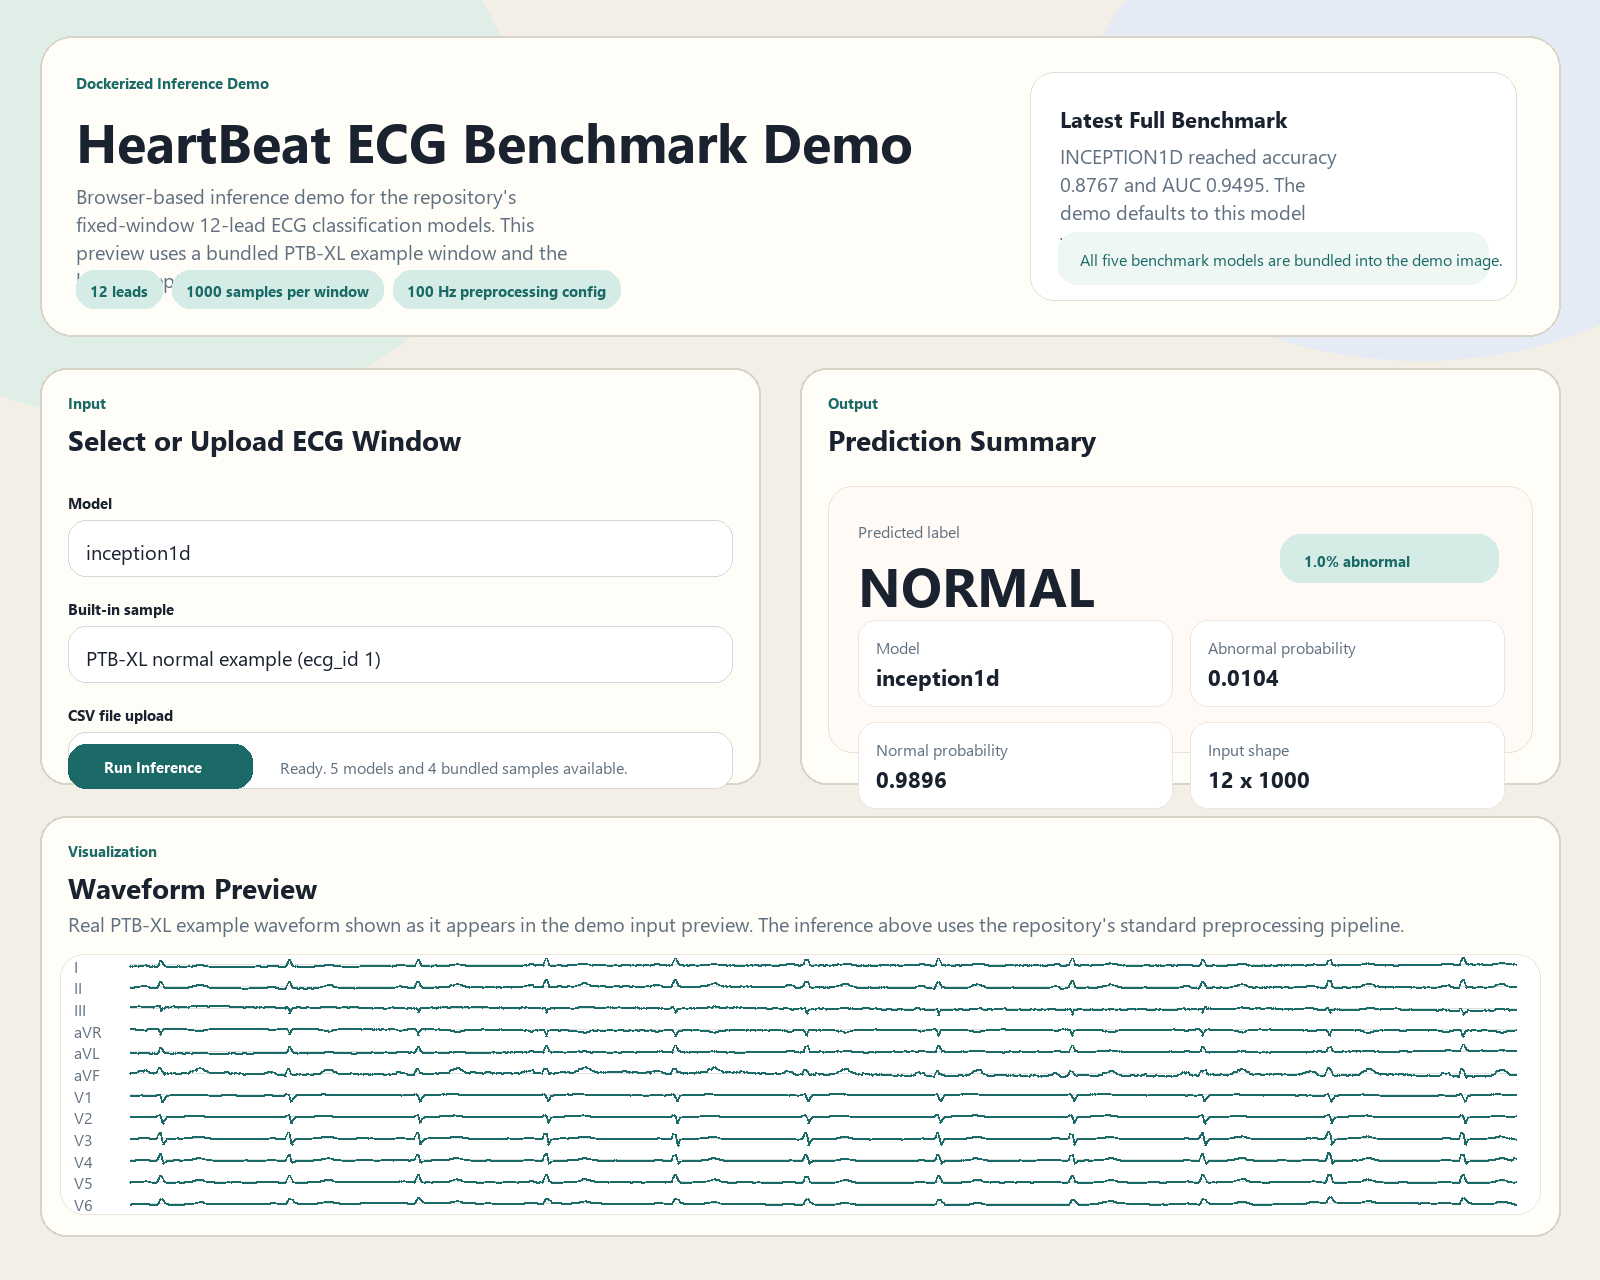
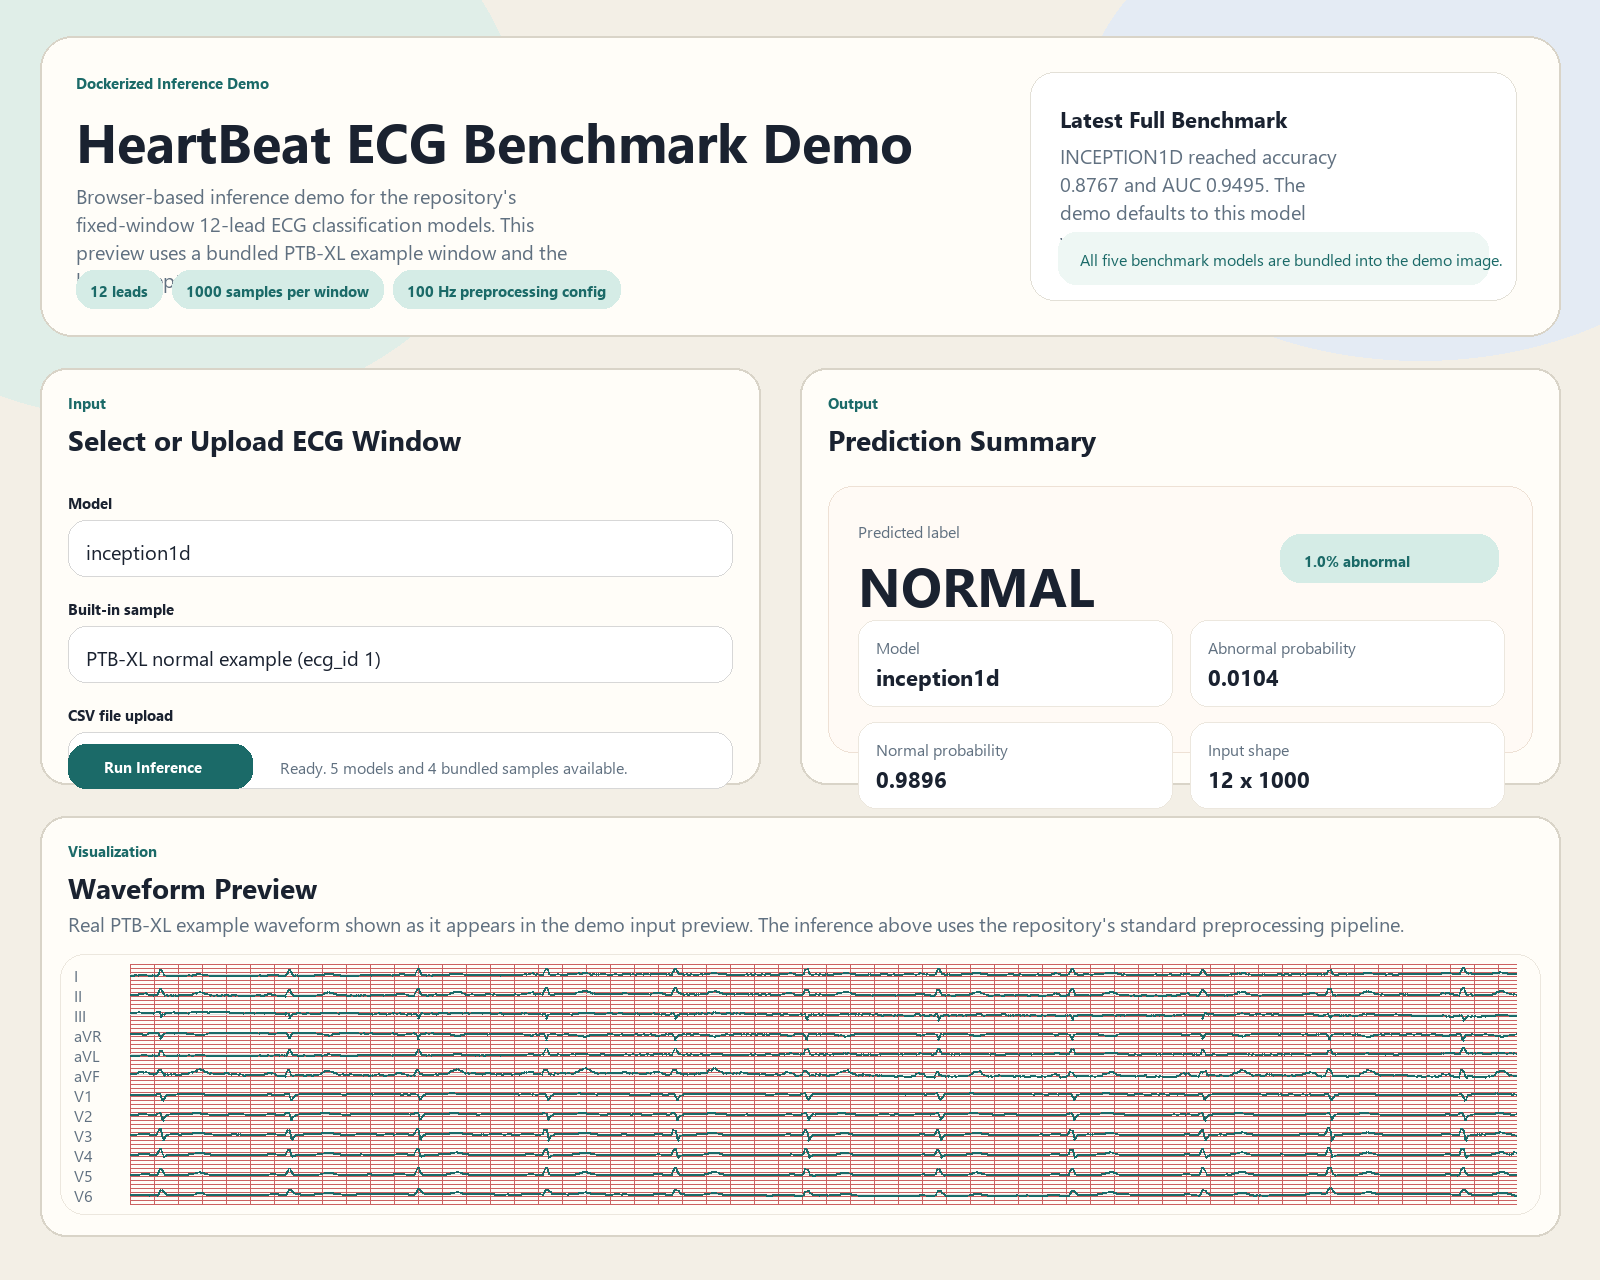
feat: preload PTB-XL demo sample and add ECG grid preview

Changed region(s): [[0.0312, 0.75, 0.9688, 0.9688]]

diff --git a/app/static/app.js b/app/static/app.js
@@ -70,6 +70,14 @@ function populateSamples(samples) {
   });
 }
 
+function chooseDefaultSample(samples) {
+  return (
+    samples.find((sample) => sample.source === "ptb-xl-v1.0.1") ||
+    samples[0] ||
+    null
+  );
+}
+
 function parseCsvText(text) {
   return text
     .trim()
@@ -126,6 +134,47 @@ function readFileText(file) {
   });
 }
 
+function drawWaveformGrid(context, leftPadding, rightPadding, width, height, leadCount) {
+  const plotLeft = leftPadding;
+  const plotRight = width - rightPadding;
+  const plotTop = 10;
+  const plotBottom = height - 10;
+  const plotWidth = plotRight - plotLeft;
+  const plotHeight = plotBottom - plotTop;
+  const segmentHeight = plotHeight / leadCount;
+
+  context.fillStyle = "#fffdf8";
+  context.fillRect(plotLeft, plotTop, plotWidth, plotHeight);
+
+  const minorVertical = 24;
+  const majorVertical = minorVertical * 5;
+
+  for (let x = plotLeft; x <= plotRight; x += minorVertical) {
+    const isMajor = (x - plotLeft) % majorVertical === 0;
+    context.strokeStyle = isMajor ? "rgba(203, 97, 97, 0.16)" : "rgba(203, 97, 97, 0.08)";
+    context.lineWidth = isMajor ? 1.1 : 0.8;
+    context.beginPath();
+    context.moveTo(x, plotTop);
+    context.lineTo(x, plotBottom);
+    context.stroke();
+  }
+
+  for (let leadIndex = 0; leadIndex < leadCount; leadIndex += 1) {
+    const rowTop = plotTop + leadIndex * segmentHeight;
+    const minorHorizontal = segmentHeight / 5;
+    for (let step = 0; step <= 5; step += 1) {
+      const y = rowTop + step * minorHorizontal;
+      const isMajor = step === 0 || step === 5;
+      context.strokeStyle = isMajor ? "rgba(203, 97, 97, 0.16)" : "rgba(203, 97, 97, 0.08)";
+      context.lineWidth = isMajor ? 1.0 : 0.7;
+      context.beginPath();
+      context.moveTo(plotLeft, y);
+      context.lineTo(plotRight, y);
+      context.stroke();
+    }
+  }
+}
+
 function drawWaveform(signalMatrix) {
   const canvas = elements.waveformCanvas;
   const context = canvas.getContext("2d");
@@ -145,6 +194,8 @@ function drawWaveform(signalMatrix) {
   const leftPadding = 60;
   const rightPadding = 16;
   const innerWidth = width - leftPadding - rightPadding;
+
+  drawWaveformGrid(context, leftPadding, rightPadding, width, height, leadCount);
 
   context.font = "14px Segoe UI";
   context.lineWidth = 1.4;
@@ -211,6 +262,10 @@ function setCurrentWaveform(matrix, label) {
 }
 
 async function loadSampleByName(fileName) {
+  return loadSampleByNameWithOptions(fileName, { announce: true });
+}
+
+async function loadSampleByNameWithOptions(fileName, options = {}) {
   const sample = state.samples.find((record) => record.file_name === fileName);
   if (!sample) {
     throw new Error("Selected sample is not available.");
@@ -225,7 +280,9 @@ async function loadSampleByName(fileName) {
   const parsed = parseCsvText(csvText);
   const normalized = normalizeWaveformShape(parsed);
   setCurrentWaveform(normalized, sample.name);
-  setStatus(`Loaded sample: ${sample.name} (${sample.source}).`);
+  if (options.announce !== false) {
+    setStatus(`Loaded sample: ${sample.name} (${sample.source}).`);
+  }
 }
 
 async function loadUploadedFile(file) {
@@ -254,17 +311,23 @@ async function loadInitialState() {
 
     populateModels(models, demoConfig.default_model);
     populateSamples(samples);
-    renderEmptyWaveform();
+    const defaultSample = chooseDefaultSample(samples);
+    if (defaultSample) {
+      elements.sampleSelect.value = defaultSample.file_name;
+      await loadSampleByNameWithOptions(defaultSample.file_name, { announce: false });
+    } else {
+      renderEmptyWaveform();
+    }
 
     if (models.length === 0) {
       elements.submitButton.disabled = true;
       setStatus(
-        `Loaded ${samples.length} bundled sample(s), but no checkpoints were found. Mount a demo checkpoint to enable inference.`,
+        `Loaded ${samples.length} bundled sample(s), including a PTB-XL example preview, but no checkpoints were found. Mount a demo checkpoint to enable inference.`,
         true
       );
     } else {
       setStatus(
-        `Ready. ${models.length} model checkpoint(s) and ${samples.length} bundled sample(s) available.`
+        `Ready. ${models.length} model checkpoint(s) and ${samples.length} bundled sample(s) available. A PTB-XL example window is preloaded for preview.`
       );
     }
   } catch (error) {

diff --git a/scripts/generate_demo_screenshot.py b/scripts/generate_demo_screenshot.py
@@ -106,9 +106,32 @@ def draw_waveform(draw: ImageDraw.ImageDraw, box: tuple[int, int, int, int], ecg
     row_h = height / rows
     plot_left = left + 70
     plot_right = right - 24
+    plot_top = top + 10
+    plot_bottom = bottom - 10
+    plot_height = plot_bottom - plot_top
+    row_h = plot_height / rows
+
+    draw.rounded_rectangle((left, top, right, bottom), radius=24, fill="#fffdf8", outline="#ece7de", width=1)
+
+    minor_vertical = 24
+    major_vertical = minor_vertical * 5
+    x = plot_left
+    while x <= plot_right:
+        is_major = (x - plot_left) % major_vertical == 0
+        color = (203, 97, 97, 40) if is_major else (203, 97, 97, 20)
+        draw.line((x, plot_top, x, plot_bottom), fill=color, width=1)
+        x += minor_vertical
 
     for idx in range(rows):
-        center_y = top + row_h * idx + row_h / 2
+        row_top = plot_top + row_h * idx
+        center_y = row_top + row_h / 2
+        minor_horizontal = row_h / 5
+
+        for step in range(6):
+            y = row_top + step * minor_horizontal
+            color = (203, 97, 97, 40) if step in (0, 5) else (203, 97, 97, 20)
+            draw.line((plot_left, y, plot_right, y), fill=color, width=1)
+
         draw.line((plot_left, center_y, plot_right, center_y), fill="#d8e2df", width=1)
         draw.text((left + 14, center_y - 10), leads[idx], font=FONT_SMALL, fill=MUTED)
 
@@ -244,7 +267,6 @@ def create_demo_image() -> Path:
         font=FONT_BODY,
         fill=MUTED,
     )
-    rounded(draw, (60, 954, 1540, 1214), "#ffffff", outline="#ece7de", width=1, radius=24)
     draw_waveform(draw, (60, 954, 1540, 1214), ecg)
 
     image.save(OUTPUT_PATH, format="PNG")

diff --git a/README.md b/README.md
@@ -208,6 +208,7 @@ The web demo accepts:
 
 Bundled sample inputs live under [sample_inputs/](sample_inputs).  
 The committed sample set includes a small number of **real PTB-XL example windows** plus synthetic fallback demo inputs.
+The UI preloads a bundled PTB-XL normal example by default and renders the waveform on a light ECG-style grid for easier inspection.
 
 ### Checkpoint Discovery
 
